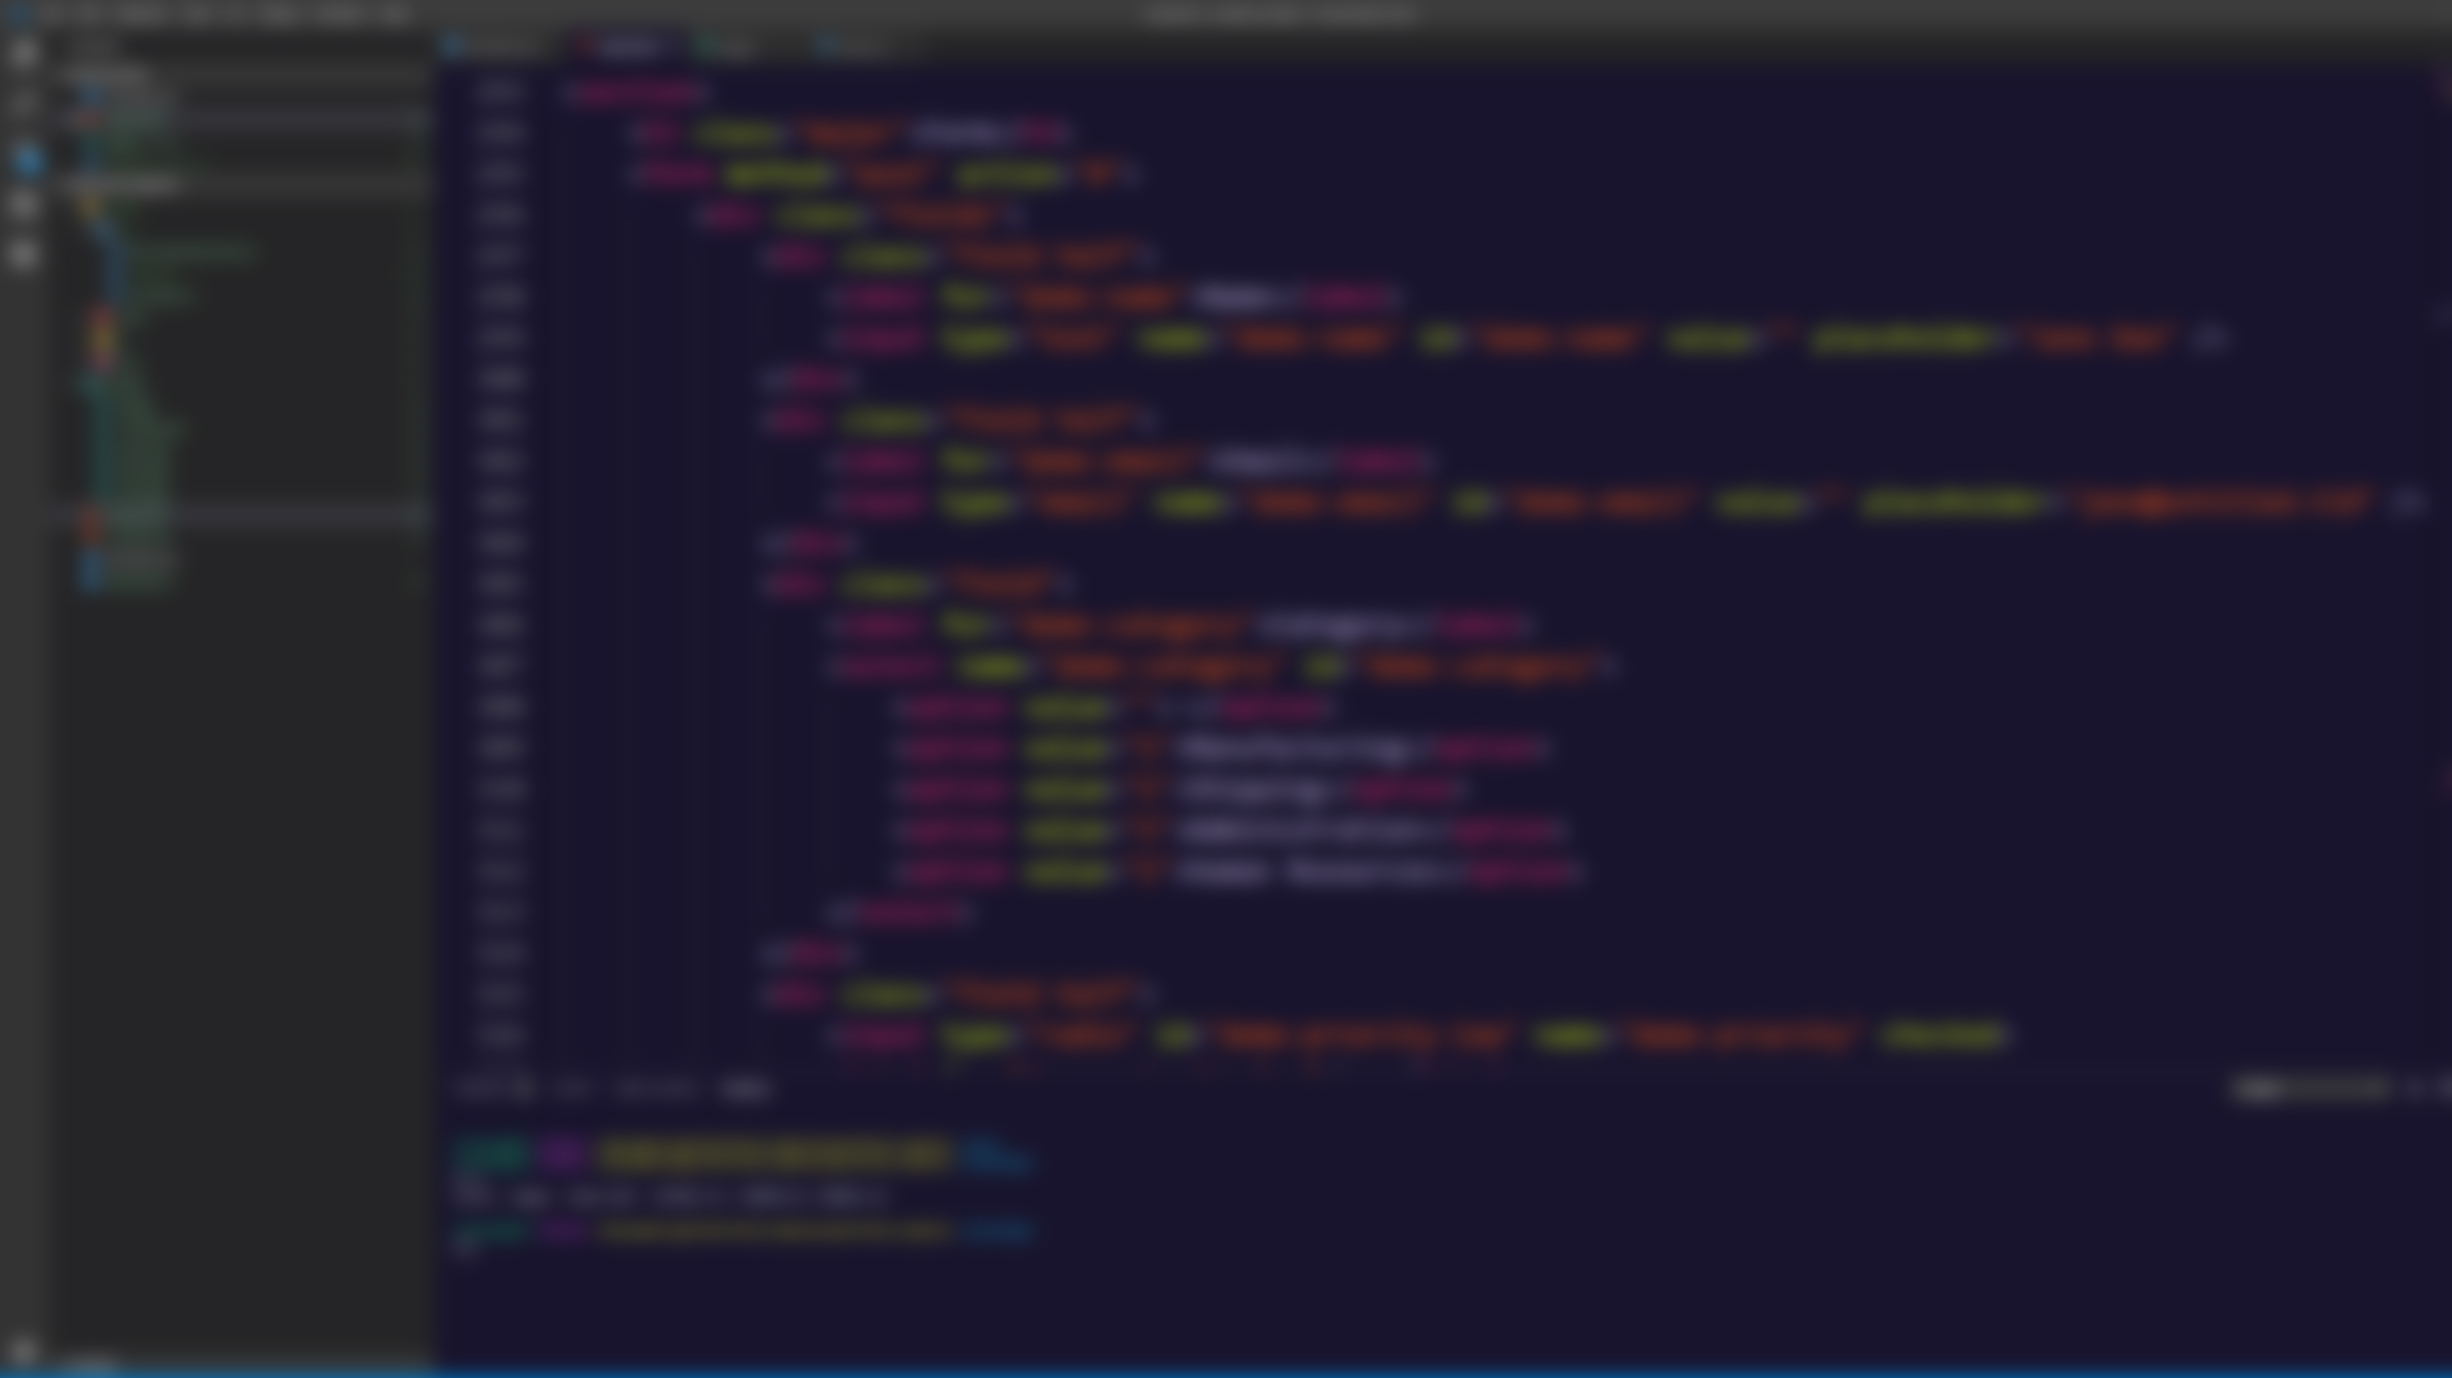
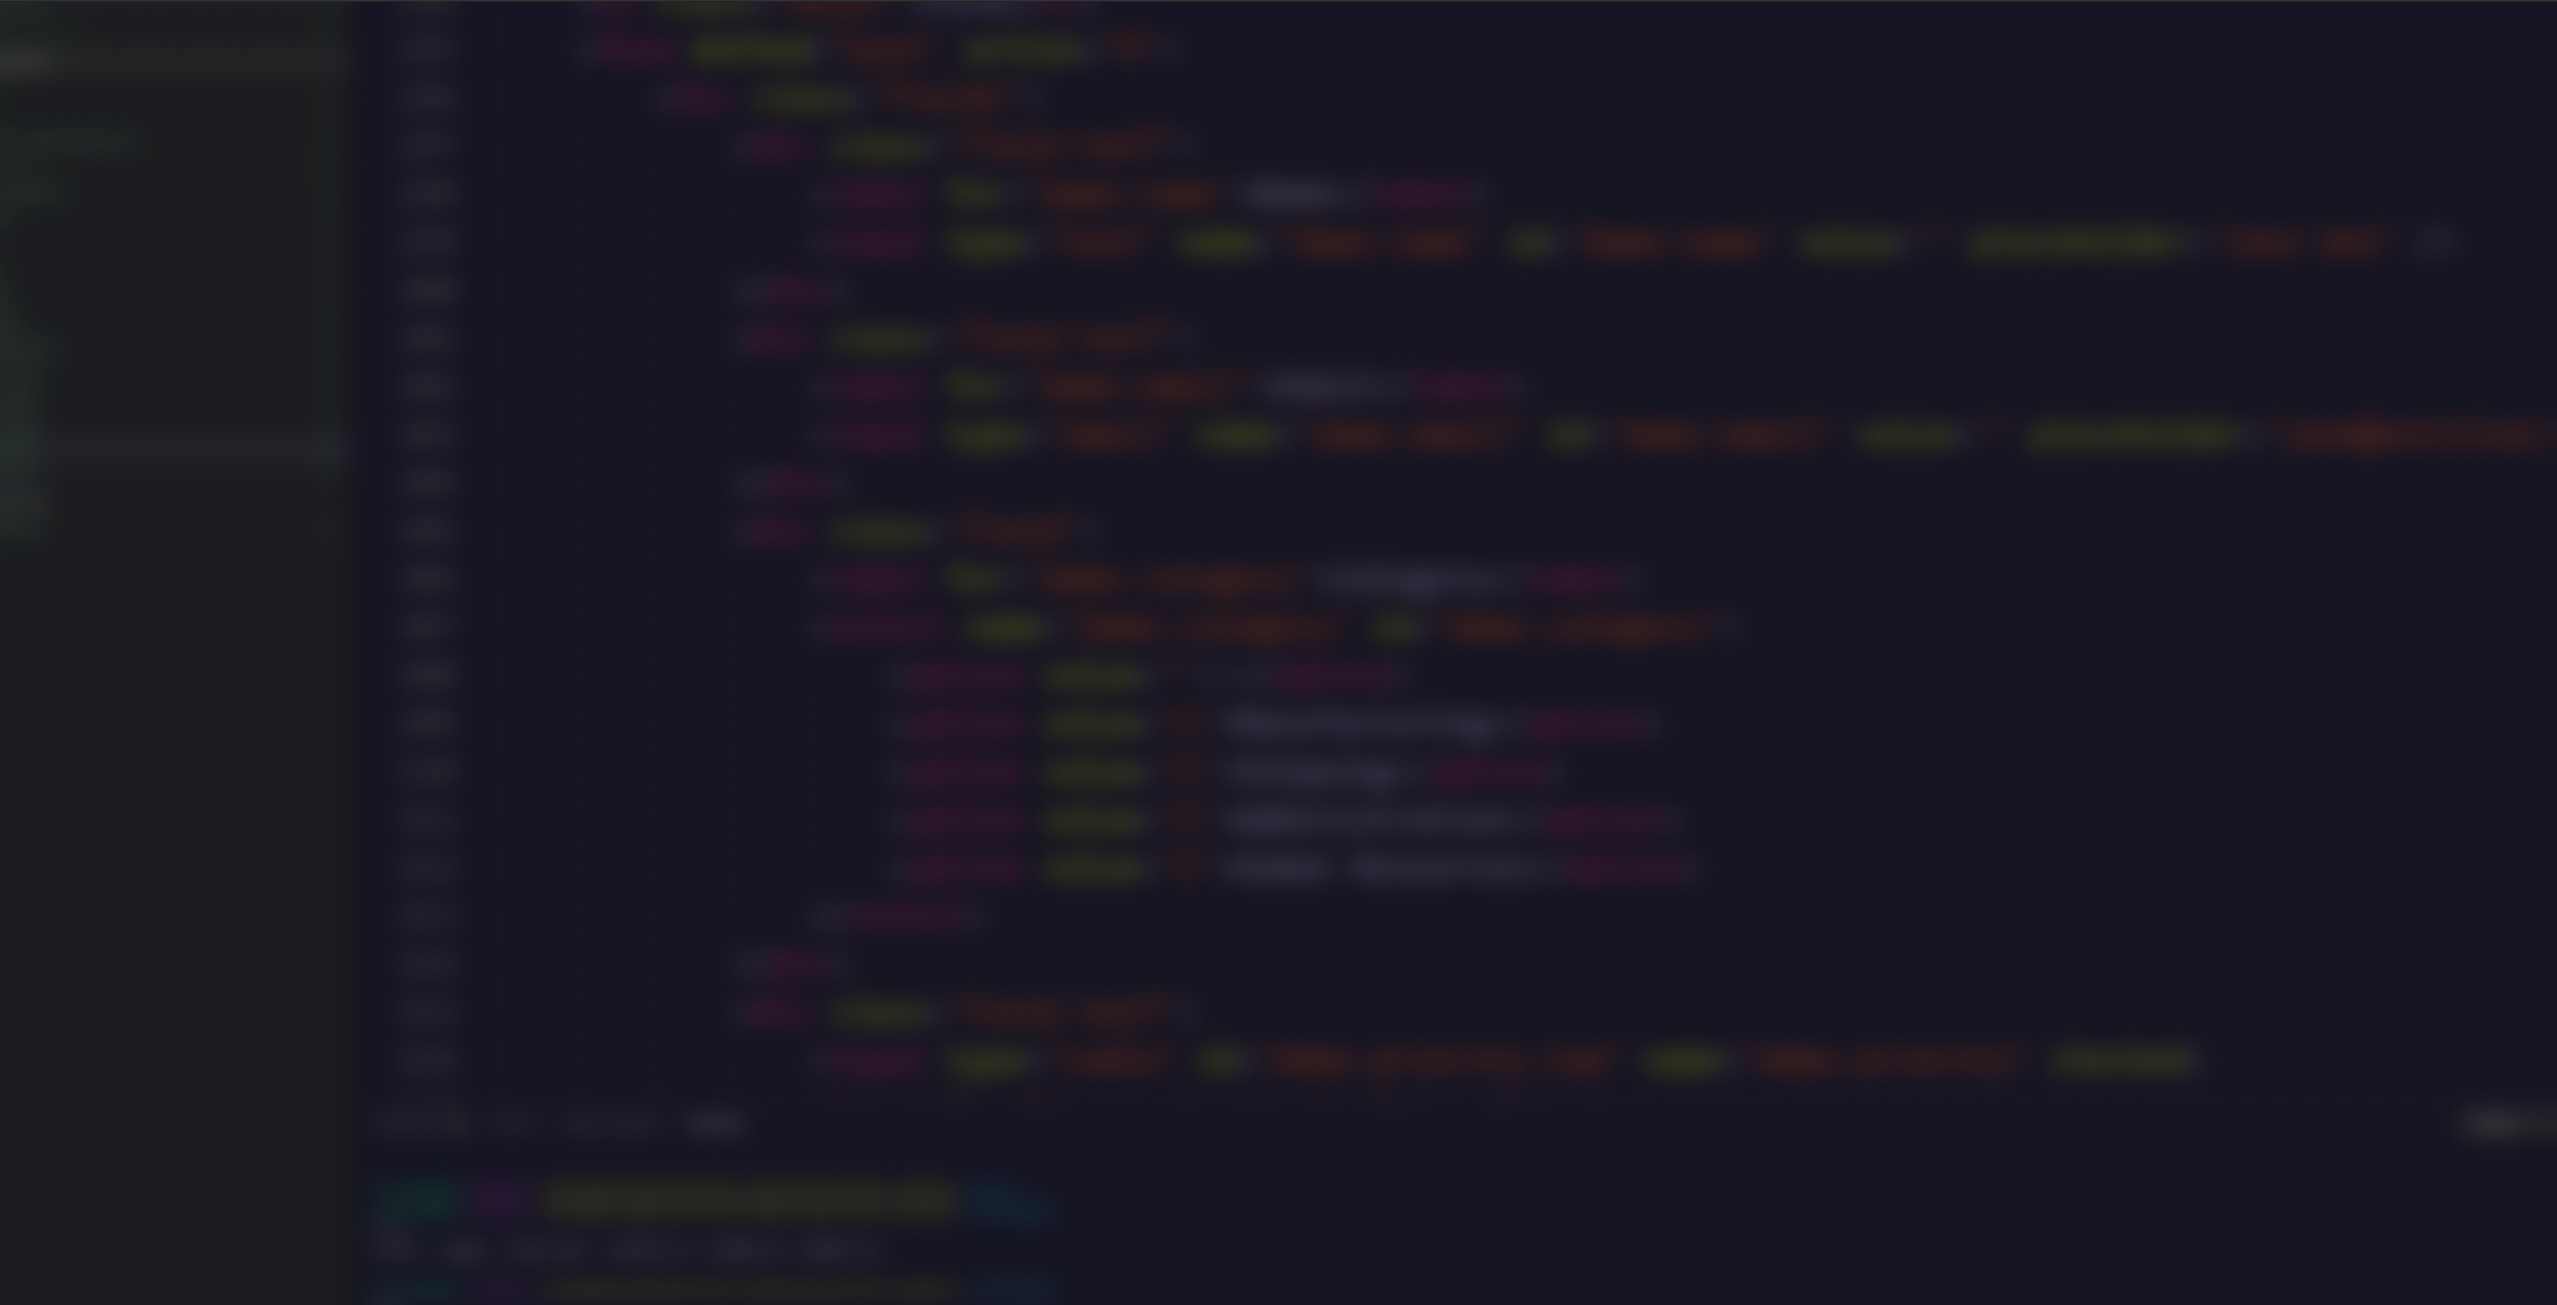
Added slogan and updated bg

diff --git a/src/App.js b/src/App.js
@@ -5,7 +5,12 @@ function App() {
   return (
     <div className="App-container">
       <div className="App">
-        <h1 className="Name">JAY SEBAGH</h1>
+        <div className="Slogan">
+          <h1 className="Name">JAY SEBAGH</h1>
+          <p className="Code">&lt;<span className="Div-color">div </span><span className="Class-color">Class</span>="software-engineer"&gt;</p>
+          <p className="Code">&lt;<span className="Div-color">p</span>&gt;Full-Stack Web & Computer Science Software Engineer&lt;<span className="Div-color">&frasl;p</span>&gt;</p>
+          <p className="Code">&lt;<span className="Div-color">&frasl;div</span>&gt;</p>
+        </div>
       </div>
     </div>
   );

diff --git a/src/App.css b/src/App.css
@@ -11,15 +11,35 @@
   height: 100vh;
 }
 
+.Slogan {
+  margin: 0 0 1rem 0;
+  border-bottom: 0.1rem solid #ffffff;
+  border-top: 0.1rem solid #ffffff;
+  width: 400px;
+  padding: 20px 0;
+}
+
 .Name {
   font-size: 2.25rem;
   line-height: 1.3;
   letter-spacing: 0.5rem;
   color: #ffffff;
   font-weight: 600;
-  margin: 0 0 1rem 0;
-  border-bottom: 0.1rem solid #ffffff;
-  border-top: 0.1rem solid #ffffff;
-  width: 400px;
-  padding: 20px 0;
+}
+
+.Code {
+  color: #ffffff;
+  letter-spacing: 0.2rem;
+  font-size: 0.8rem;
+  line-height: 2;
+}
+
+.Div-color {
+  color: #e12977;
+  font-weight: bold;
+}
+
+.Class-color {
+  color: #c5e400;
+  font-weight: bold;
 }

diff --git a/src/index.css b/src/index.css
@@ -1,5 +1,9 @@
 body, html {
   height: 100%;
+  font-family: "Source Sans Pro", sans-serif;
+  font-weight: 300;
+  font-size: 1rem;
+  line-height: 1.65;
 }
 
 body {
